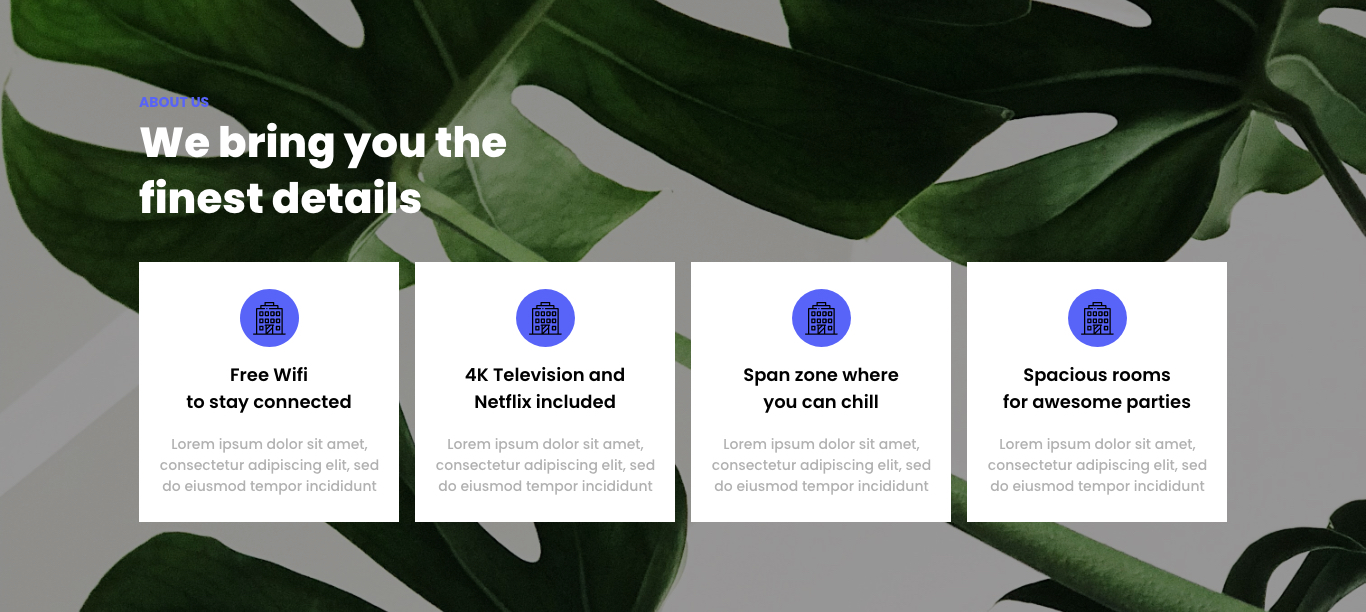
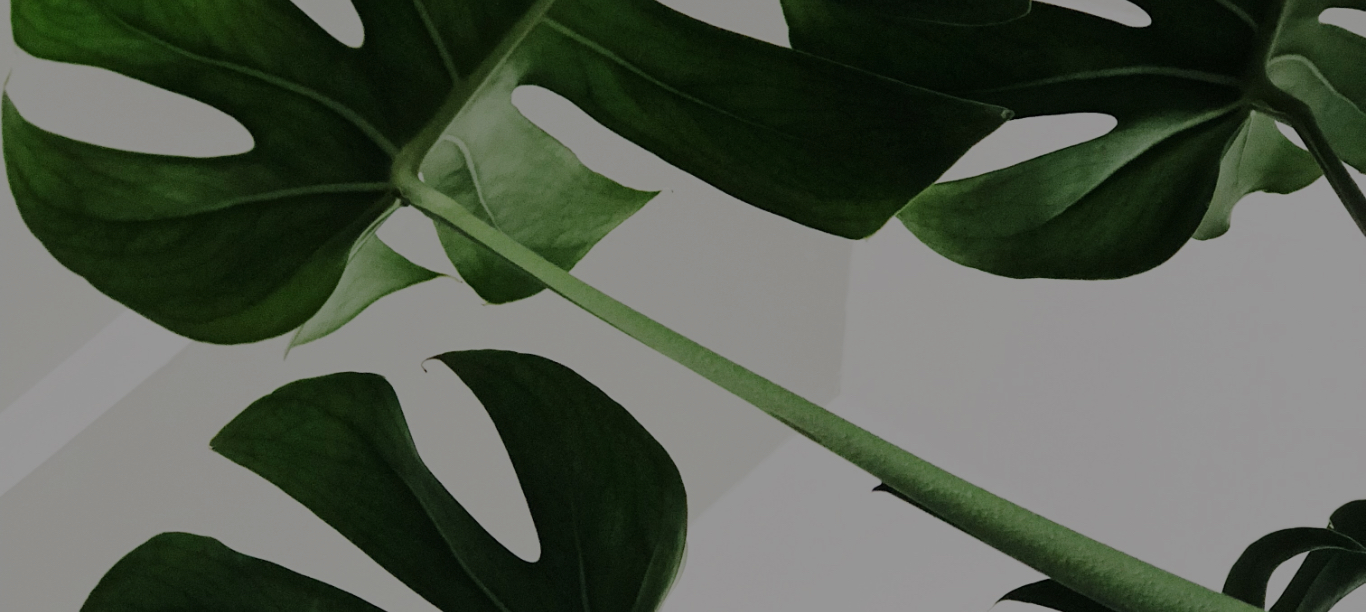
add section3

diff --git a/index.html b/index.html
@@ -48,7 +48,7 @@
             </div>
         </div>
     </header>
-    <!-- <section> -->
+    <!-- <section2> -->
     <section class="section2">
         <div class="container">
             <div class="box-wrapper">
@@ -73,6 +73,50 @@
             </div>  
         </div>
     </section>
+   <!-- <section 2> -->
+   <!-- <section 3> -->
+    <section class="section3">
+        <div class="container">
+            <h3 class="left-box-title">ABOUT US</h3>
+            <h2 class="section3-title">We bring you the 
+                finest details</h2>
+            <div class="block-wrapper">
+                <div class="block">
+                    <div class="icon">
+                        <img src="images/icon.svg" alt="icon">
+                    </div>
+                    <h3 class="block-title">Free Wifi
+                        to stay connected</h3>
+                    <p class="block-text">Lorem ipsum dolor sit amet, consectetur adipiscing elit, sed do eiusmod tempor incididunt </p>
+                </div>
+                <div class="block">
+                    <div class="icon">
+                        <img src="images/icon.svg" alt="icon">
+                    </div>
+                    <h3 class="block-title">4K Television and
+                        Netflix included</h3>
+                    <p class="block-text">Lorem ipsum dolor sit amet, consectetur adipiscing elit, sed do eiusmod tempor incididunt </p>
+                </div>
+                <div class="block">
+                    <div class="icon">
+                        <img src="images/icon.svg" alt="icon">
+                    </div>
+                    <h3 class="block-title">Span zone where
+                        you can chill</h3>
+                    <p class="block-text">Lorem ipsum dolor sit amet, consectetur adipiscing elit, sed do eiusmod tempor incididunt </p>
+                </div>
+                <div class="block">
+                    <div class="icon">
+                        <img src="images/icon.svg" alt="icon">
+                    </div>
+                    <h3 class="block-title">Spacious rooms
+                        for awesome parties</h3>
+                    <p class="block-text">Lorem ipsum dolor sit amet, consectetur adipiscing elit, sed do eiusmod tempor incididunt </p>
+                </div>
+            </div>
+        </div>
+    </section>
+      
 
 
 </body>

diff --git a/css/style.css b/css/style.css
@@ -1,6 +1,6 @@
 /* <header */
 .header{
-  background-image: url(../images/bg.jpg);
+   background-image: url(../images/bg.jpg);
     height: 324px;
     width: 100%;
     background-repeat: no-repeat;
@@ -157,3 +157,70 @@
     width: 100%;
 }
 /* <section2> */
+/* <section 3> */
+.section3{
+    background-image: url(../images/bg2.jpg);
+    /* height: 612px; */
+    width: 100%;
+    background-repeat: no-repeat;
+    background-position: center;
+    background-size: cover;
+    padding-top: 92px;
+    padding-bottom: 90px;
+}
+.section3-title{
+    max-width: 376px;
+    width: 100%;
+    color: #FFFFFF;
+    font-size: 42px;
+    font-family: 'Poppins-ExtraBold ';
+    line-height: 56px;
+    margin-bottom: 34px;
+}
+.block-wrapper{
+    width: 100%;
+    display: flex;
+    justify-content: space-between;
+}
+.block{
+    /* max-width: 260px;
+    width: 100%; */
+    height: 260px;
+    background-color: #FFFFFF;
+    display: flex;
+    flex-direction: column;
+    justify-content: center;
+    align-items: center;
+    width: 24%;
+}
+.icon{
+    width: 59px;
+    height: 58px;
+    border-radius: 50%;
+    background-color: #5863F8;
+    display: flex;
+    justify-content: center;
+    align-items: center;
+}
+.icon img{
+    size: 32px;
+}
+.block-title{
+    max-width: 180px;
+    width: 100%;
+    font-size: 18px;
+    font-family: 'Poppins-SemiBold';
+    line-height: 27px;
+    color: #000000;
+    margin-top: 15;
+    margin-bottom: 20px;
+    text-align: center;
+}
+.block-text{
+    max-width: 221px;
+    width: 100%;
+    font-size: 14px;
+    font-family: 'Poppins-Medium';
+    color: #B1B1B1;
+    text-align: center;
+}
